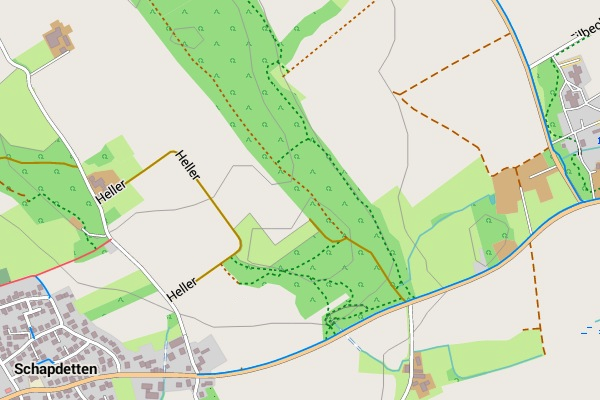
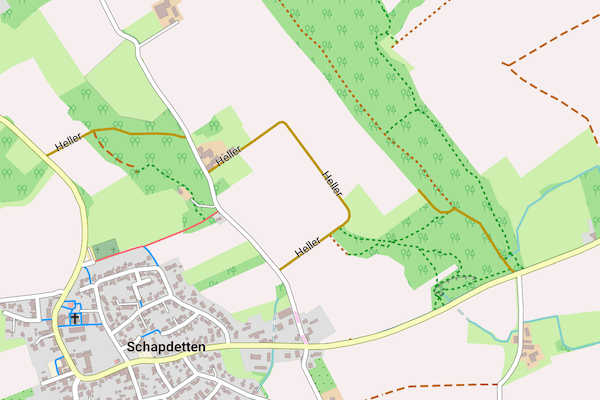
Android Winter-2016 - Überarbeitung Webseite - Teil 1

diff --git a/android/de/design.html b/android/de/design.html
@@ -61,7 +61,7 @@
 
       <h3>Design freizeitkarte:</h3>
 
-      <p><img alt="" src="../images/baumberge-2.png" style="border-width: 1px; border-style: solid;" /><br />
+      <p><img alt="" src="../images/baumberge-freizeitkarte.png" style="border-width: 1px; border-style: solid;" /><br />
       <small>Das Design "freizeitkarte" verwendet helle Farben und ist für die allgemeine Nutzung ausgelegt.</small></p>
 
       <table cellpadding="1" cellspacing="1" width="602">
@@ -94,7 +94,7 @@
 
       <h3>Design fzk-outdoor-contrast:</h3>
 
-      <p><img alt="" src="../images/baumberge-1.png" style="border-width: 1px; border-style: solid;" /><br />
+      <p><img alt="" src="../images/baumberge-outdoor-contrast.png" style="border-width: 1px; border-style: solid;" /><br />
       <small>Das Design "fzk-outdoor-contrast" verwendet kräftige Farben und ist für die Nutzung "Outdoor" ausgelegt.</small></p>
 
       <table cellpadding="1" cellspacing="1" width="602">
@@ -132,8 +132,45 @@
                c:geo, CacheBox, ...<br />
                <br />
                fzk-outdoor-contrast<br />
-               0.2 MB</td>
+               0.2 MB<br />
+               <br />
+               LETZTE AUSGABE<br />
+               SUPPORT EINGESTELLT<br />
+               </td>
                <td style="text-align: left;"><a href="http://download.freizeitkarte-osm.de/android/latest/fzk-outdoor-contrast.zip"><img alt="" src="../images/Devices-computer-laptop-icon.png" /></a></td>
+            </tr>
+         </tbody>
+      </table>
+
+      <h3>Design fzk-outdoor-soft</h3>
+
+      <p><img alt="" src="../images/baumberge-outdoor-soft.png" style="border-width: 1px; border-style: solid;" /><br />
+      <small>Das Design "fzk-outdoor-soft" verwendet gegenüber "fzk-outdoor-contrast" abgeschwächte Kontraste.</small></p>
+
+      <table cellpadding="1" cellspacing="1" width="602">
+         <tbody>
+            <tr>
+               <td style="width:33%; text-align: left; font-weight:bold;">
+               Locus Free / Pro<br />
+               <br />
+               fzk-outdoor-soft-locus<br />
+               0.3 MB</td>
+               <td style="text-align: left;"><a href="http://download.freizeitkarte-osm.de/android/latest/fzk-outdoor-soft-locus.zip"><img alt="" src="../images/Devices-computer-laptop-icon.png" /></a></td>
+               <td style="text-align: left;"><a href="locus-actions://http/download.freizeitkarte-osm.de/android/latest/locus_install_theme_fzk-outdoor-soft-locus.xml"><img alt="" src="../images/web_logo_200x911.png" /></a></td>
+            </tr>
+         </tbody>
+      </table>
+
+      <table cellpadding="1" cellspacing="1" width="602">
+         <tbody>
+            <tr>
+               <td style="width:33%; text-align: left; font-weight:bold;">
+               Cruiser, OruxMaps, ...<br />
+               <br />
+               fzk-outdoor-soft-v4<br />
+               0.3 MB</td>
+               <td style="text-align: left;"><a href="http://download.freizeitkarte-osm.de/android/latest/fzk-outdoor-soft-v4.zip"><img alt="" src="../images/Devices-computer-laptop-icon.png" /></a></td>
+               <td style="text-align: left;"><a href="orux-mf-theme://download.freizeitkarte-osm.de/android/latest/fzk-outdoor-soft-v4.zip"><img alt="" src="../images/oruxmap_icon_medium.png" /></a></td>
             </tr>
          </tbody>
       </table>

diff --git a/android/en/design.html b/android/en/design.html
@@ -58,7 +58,7 @@
 
       <h3>Design freizeitkarte</h3>
 
-      <p><img alt="" src="../images/baumberge-2.png" style="border-width: 1px; border-style: solid;" /><br />
+      <p><img alt="" src="../images/baumberge-freizeitkarte.png" style="border-width: 1px; border-style: solid;" /><br />
       <small>The design uses bright colors and is designed for general use.</small></p>
 
       <table cellpadding="1" cellspacing="1" width="602">
@@ -91,7 +91,7 @@
 
       <h3>Design fzk-outdoor-contrast</h3>
 
-      <p><img alt="" src="../images/baumberge-1.png" style="border-width: 1px; border-style: solid;" /><br />
+      <p><img alt="" src="../images/baumberge-outdoor-contrast.png" style="border-width: 1px; border-style: solid;" /><br />
       <small>The design uses bold colors and is designed for "outdoor" use.</small></p>
 
       <table cellpadding="1" cellspacing="1" width="602">
@@ -129,8 +129,46 @@
                c:geo, CacheBox, ...<br />
                <br />
                fzk-outdoor-contrast<br />
-               0.2 MB</td>
+               0.2 MB<br />
+               <br />
+               FINAL RELEASE<br />
+               SUPPORT CANCELED<br />
+
+               </td>
                <td style="text-align: left;"><a href="http://download.freizeitkarte-osm.de/android/latest/fzk-outdoor-contrast.zip"><img alt="" src="../images/Devices-computer-laptop-icon.png" /></a></td>
+            </tr>
+         </tbody>
+      </table>
+
+      <h3>Design fzk-outdoor-soft</h3>
+
+      <p><img alt="" src="../images/baumberge-outdoor-soft.png" style="border-width: 1px; border-style: solid;" /><br />
+      <small>The design "fzk-outdoor-soft" uses in comparison to "fzk-outdoor-contrast" diminished contrasts.</small></p>
+
+      <table cellpadding="1" cellspacing="1" width="602">
+         <tbody>
+            <tr>
+               <td style="width:33%; text-align: left; font-weight:bold;">
+               Locus Free / Pro<br />
+               <br />
+               fzk-outdoor-soft-locus<br />
+               0.3 MB</td>
+               <td style="text-align: left;"><a href="http://download.freizeitkarte-osm.de/android/latest/fzk-outdoor-soft-locus.zip"><img alt="" src="../images/Devices-computer-laptop-icon.png" /></a></td>
+               <td style="text-align: left;"><a href="locus-actions://http/download.freizeitkarte-osm.de/android/latest/locus_install_theme_fzk-outdoor-soft-locus.xml"><img alt="" src="../images/web_logo_200x911.png" /></a></td>
+            </tr>
+         </tbody>
+      </table>
+
+      <table cellpadding="1" cellspacing="1" width="602">
+         <tbody>
+            <tr>
+               <td style="width:33%; text-align: left; font-weight:bold;">
+               Cruiser, OruxMaps, ...<br />
+               <br />
+               fzk-outdoor-soft-v4<br />
+               0.3 MB</td>
+               <td style="text-align: left;"><a href="http://download.freizeitkarte-osm.de/android/latest/fzk-outdoor-soft-v4.zip"><img alt="" src="../images/Devices-computer-laptop-icon.png" /></a></td>
+               <td style="text-align: left;"><a href="orux-mf-theme://download.freizeitkarte-osm.de/android/latest/fzk-outdoor-soft-v4.zip"><img alt="" src="../images/oruxmap_icon_medium.png" /></a></td>
             </tr>
          </tbody>
       </table>

diff --git a/android/de/allgemeines.html b/android/de/allgemeines.html
@@ -45,16 +45,17 @@
 
    <div id="content">
       <p><strong>Basisdaten der Freizeitkarten</strong><br />
-      Die Freizeitkarten "Herbst 2016" basieren auf den OpenStreetMap-Daten vom 25.09.2016.
+      Die Freizeitkarten "Winter 2016" basieren auf den OpenStreetMap-Daten vom 04.12.2016.
       Danke an alle Mapper die Daten hierzu beigetragen haben.</p>
 
-      <p><strong>Verbesserungen in der Kartenausgabe "Herbst 2016"</strong><br />
+      <p><strong>Verbesserungen in der Kartenausgabe "Winter 2016"</strong><br />
           - allgemeine Verbesserung der Kartendaten durch das OSM-Projekt<br />
-          - generelle Überarbeitung der Kartenstile und Kartenfunktionen<br />
+          - allgemeine Überarbeitung der Kartenstile und Kartenfunktionen<br />
+          - zusätzliche Karten für AUT und LUX mit sehr präzisen Höhenlinien<br />
       </p>
 
       <p><strong>Nächste Ausgabe</strong><br />
-      Die Freizeitkarten "Winter 2016" erscheinen voraussichtlich Mitte Dezember 2016.</p>
+      Die Freizeitkarten "Frühjahr 2017" erscheinen voraussichtlich Mitte März 2017.</p>
 
       <img alt="" src="../images/koeln-11.png" style="border-width: 1px; border-style: solid;" /><br />
       <small>Köln - Metropole und Einkaufstadt am Rhein.</small>

diff --git a/android/en/allgemeines.html b/android/en/allgemeines.html
@@ -45,16 +45,17 @@
 
    <div id="content">
       <p><strong>Underlying data</strong><br />
-      The Freizeitkarte maps "autumn 2016" are based on OpenStreetMap data from 2016/09/25.
+      The Freizeitkarte maps "winter 2016" are based on OpenStreetMap data from 2016/12/04.
       Thanks to all the mappers for their contribution to the OSM project.</p>
 
-      <p><strong>Change log for release "autumn 2016"</strong><br />
+      <p><strong>Change log for release "winter 2016"</strong><br />
       - general improvement of the map data by the OSM project<br />
       - general redesign of the map styles and map functions<br />
+      - additional map for AUT and LUX with high quality contour lines<br />
       </p>
 
       <p><strong>Next release</strong><br />
-      The release "winter 2016" is planned for mid of December 2016.</p>
+      The release "spring 2017" is planned for mid of March 2017.</p>
 
       <img alt="" src="../images/koeln-11.png" style="border-width: 1px; border-style: solid;" /><br />
       <small>Cologne (Köln) - Megacity and shopping town at the rhine.</small>

diff --git a/android/de/index.html b/android/de/index.html
@@ -52,9 +52,8 @@
          Die Offline-Vektor-Karten basieren auf den Projekten OpenStreetMap (OSM) und Mapsforge. Sie k&ouml;nnen zusammen
          mit verschiedenen Android-Karten-Apps (z.B. Locus Map, OruxMaps, c:geo, CacheBox, ...) benutzt werden.</p>
 
-      <img alt="" src="../images/prora-ruegen.png" style="border-width: 1px; border-style: solid;" /><br />
-      <small>Prora (Rügen): Der „Koloss von Prora“ ist mit heute immer noch 2.5 km (vormals 4.5 km) das längste Gebäude der Welt.<br />
-      Geplant als nationalsozialistisches Monument zur Gleichschaltung (und Erholung) von 20000 Bürgern nie fertig geworden.</small>
+      <img alt="" src="../images/aufmacher-kitzbühel.png" style="border-width: 1px; border-style: solid;" /><br />
+      <small>Kitzbühel (Österreich): Mit über 50 Seilbahnen und Lifte eines der Top-10-Skigebiete in Europa.</small>
 
       <p><strong>Die Freizeitkarten basieren auf den Daten des OSM-Projektes.
          Sie wurden als Universalkarten entwickelt, f&uuml;r</strong></p>

diff --git a/android/en/index.html b/android/en/index.html
@@ -52,9 +52,8 @@
       The Offline-Vector-Maps are based on the projects OpenStreetMap (OSM) and Mapsforge.
       You can use them with various Android navigation apps (eg. Locus Map, OruxMaps, c:geo, CacheBox,...).</p>
 
-      <img alt="" src="../images/prora-ruegen.png" style="border-width: 1px; border-style: solid;" /><br />
-      <small>Prora (Rügen): The "colossus from Prora" is still the longest building in the world with 2.5 km (formerly 4.5 km).<br />
-         Planned as a nazi monument for the cooptation (and vacation) of 20,000 citizens but never finished.</small>
+      <img alt="" src="../images/aufmacher-kitzbühel.png" style="border-width: 1px; border-style: solid;" /><br />
+      <small>Kitzbuhel (Austria): With over 50 cable cars and lifts one of the top 10 ski resorts in Europe.</small>
 
       <p><strong>The Freizeitkarte map is based on data from the OpenStreetMap project.
       The map was developed as a universal map for</strong></p>
